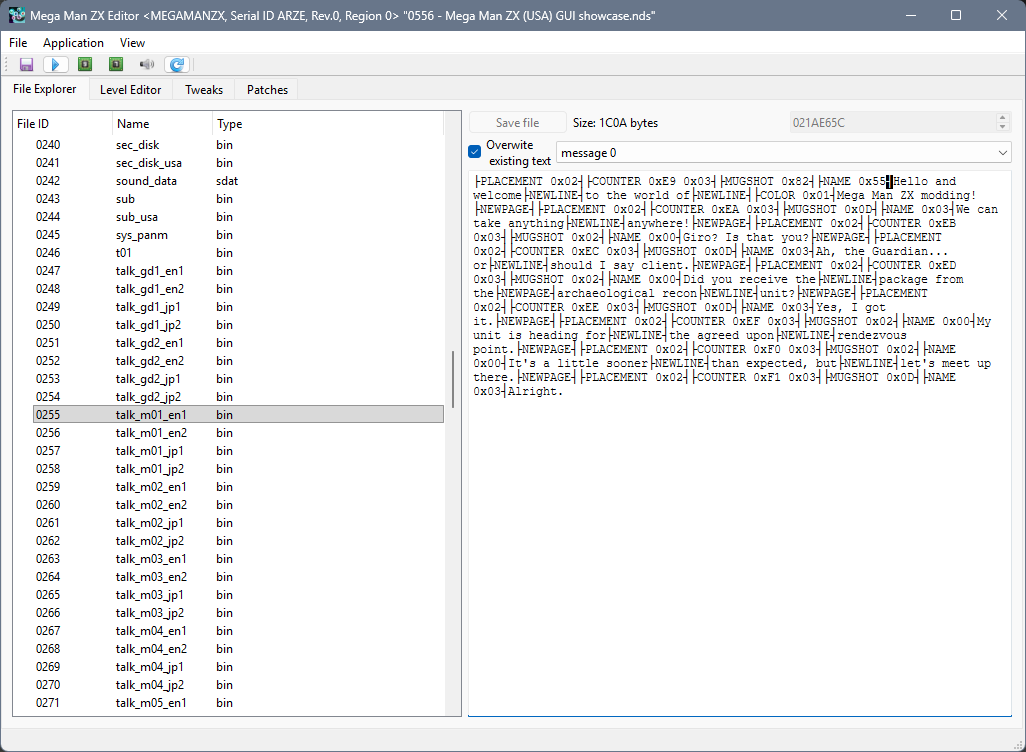
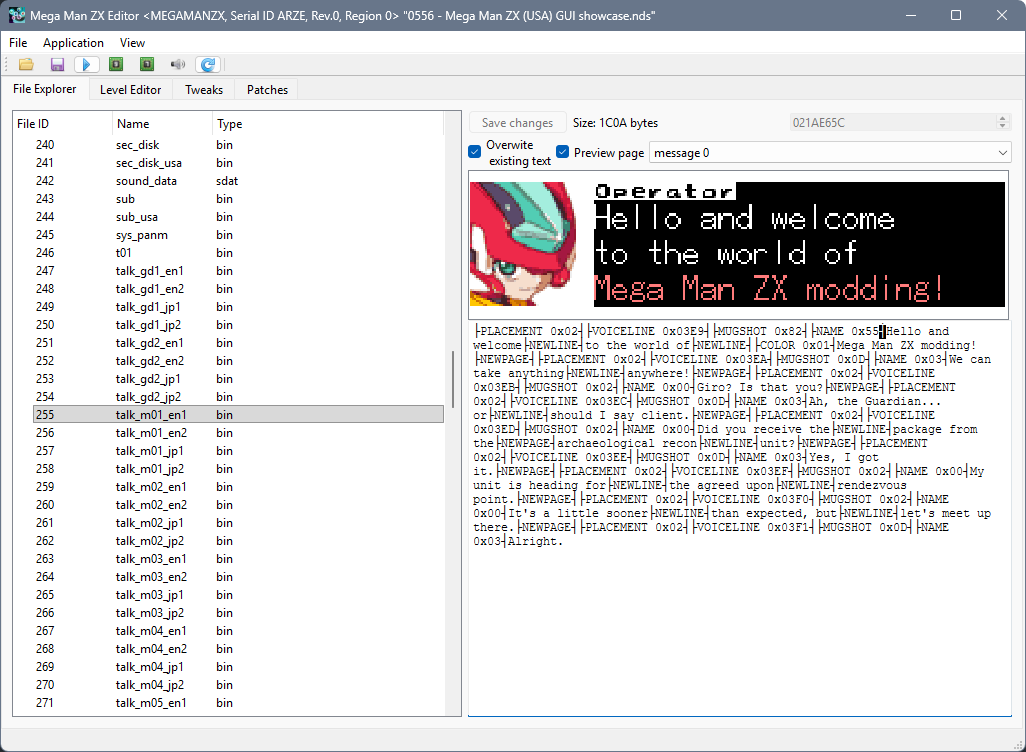
Dialogue names previewable
- The dialogue preview feature now displays the current name
- Special symbols that use the special command notation (ex.: ├DPAD_LEFT┤) are now displayed as well
- Adjust how newlines are handled for a more authentic render (absolute line position instead of relative vertical offset)
- Display choice cursors at all possible positions when the dialogue enables choices

diff --git a/MME_NDS.py b/MME_NDS.py
@@ -2858,11 +2858,16 @@ class MainWindow(QtWidgets.QMainWindow):
         find = text[p:].find(newpage)
         rfind = text[:p].rfind(newpage)
         viewed_text = text[rfind + len(newpage) if rfind != -1 else 0:p+find if find != -1 else len(text)].split(newpage)[0]
+        arm9_bin = self.arm9_decompressed.save()
         #print(rfind, find)
-        def draw_char(chr_index: int, draw_index: int):
+        def get_sp_command_name(*val):
+            return self.file_content_text.charmap.dict_byte_to_unicode[val].split(" ")[0]
+        def draw_char(chr_index: int, draw_index: int, line: int=None):
+            if line is None:
+                line = newline_count
             painter_text.drawImage(
                 (draw_index%chars_per_line)*char_width,
-                (draw_index//chars_per_line)*8,
+                line*16+(draw_index//chars_per_line)*8,
                 lib.datconv.binToQt(
                     font_obj.chr_data[chr_index*font_obj.indexing_space:(chr_index+1)*font_obj.indexing_space],
                     self.GFX_PALETTES[1][color_index*2:],
@@ -2870,6 +2875,33 @@ class MainWindow(QtWidgets.QMainWindow):
                     1, 1, char_width, font_obj.char_height
                 )
             )
+        def draw_namechar(chr_index: int, draw_index: int):
+            painter_name.drawImage(
+                draw_index*8,
+                0,
+                lib.datconv.binToQt(
+                    arm9_bin[self.gamedat.arm9Addrs["dialogue font"]+chr_index*64:self.gamedat.arm9Addrs["dialogue font"]+(chr_index+1)*64],
+                    [0xff000000, 0xff7b7b7b, 0xffffffff],
+                    lib.datconv.CompressionAlgorithmEnum.EIGHTBPP,
+                    1, 1
+                )
+            )
+        def draw_name(name_index: int):
+            key = "dialogue names "
+            gfx_offset_tiles = 0
+            if self.file_content_text.charmap in [lib.dialogue.CHARMAP_DIALOGUE_ZX_JP, lib.dialogue.CHARMAP_DIALOGUE_ZXA_JP]:
+                key += "jp"
+                name_charmap = lib.dialogue.CHARMAP_DIALOGUENAME_ZX_JP
+                gfx_offset_tiles = 0x5D # todo: make this a constant
+            else:
+                key += "en"
+                name_charmap = lib.dialogue.CHARMAP_DIALOGUENAME_ZX_EN
+            addr_namelist = self.gamedat.arm9Addrs[key]
+            name: str = lib.dialogue.DialogueFile.binToText(arm9_bin[addr_namelist+name_index*0x0C:addr_namelist+(name_index+1)*0x0C], name_charmap)
+            name = name[:name.find(name_charmap.dict_byte_to_unicode[(0xFF,)])]
+            #print(name)
+            for char_i, char in enumerate(name):
+                draw_namechar(name_charmap.dict_unicode_to_byte[char][0]+gfx_offset_tiles, char_i)
         if viewed_text != self.gfx_view_dialogue.viewed_text:
             #print(viewed_text)
             self.gfx_view_dialogue.viewed_text = viewed_text
@@ -2922,6 +2954,8 @@ class MainWindow(QtWidgets.QMainWindow):
                 chars_per_line = BOX_WIDTH//char_width
                 graphic_mugshot = QtGui.QPixmap(8*MUGSHOT_WIDTH_TILES, 8*MUGSHOT_HEIGHT_TILES)
                 graphic_mugshot.fill(0)
+                graphic_name = QtGui.QPixmap(BOX_WIDTH, 8)
+                graphic_name.fill(0)
                 graphic_text = QtGui.QPixmap(BOX_WIDTH, box_height)
                 graphic_text.fill(0)
                 if self.gfx_view_dialogue.viewed_text != "":
@@ -2930,8 +2964,12 @@ class MainWindow(QtWidgets.QMainWindow):
                     painter_text.setRenderHints(QtGui.QPainter.RenderHint.Antialiasing | QtGui.QPainter.RenderHint.SmoothPixmapTransform, False)
                     painter_text.setCompositionMode(QtGui.QPainter.CompositionMode.CompositionMode_Source)
                     is_sp = False
-                    draw_index = 0
-                    color_index = 0
+                    draw_index = 0 # cursor position
+                    newline_count = 0
+                    color_index = 0 # color command value
+                    choice_cursor = None # line on which the choice cursor is
+                    placement_bottom = False
+                    placement_right = False
                     for c_i, c in enumerate(viewed_text):
                         if is_sp:
                             if c == "┤":
@@ -2942,33 +2980,50 @@ class MainWindow(QtWidgets.QMainWindow):
                             if sp_command in self.file_content_text.charmap.dict_unicode_to_byte: # argument-less command
                                 chr_index = self.file_content_text.charmap.dict_unicode_to_byte[sp_command][0]
                                 if chr_index < 0xF0: # chars that aren't really special commands but have a special representation (ex.:├DPAD┤)
+                                    chr_index = self.file_content_text.charmap.dict_unicode_to_byte[sp_command][0]
+                                    draw_char(chr_index, draw_index)
                                     draw_index += 1
                                 else:
-                                    if sp_command == self.file_content_text.charmap.dict_byte_to_unicode[(0xfc,)]:
+                                    if sp_command == get_sp_command_name(0xfc,): # newline
                                         #print(f"newline (({draw_index-1}//{chars_per_line})+2)*{chars_per_line} = {((draw_index//chars_per_line)+2)*chars_per_line}")
-                                        draw_index = (((draw_index-1)//chars_per_line)+2)*chars_per_line
-                            elif viewed_text[c_i:c_i+viewed_text[c_i:].find(" ")] == self.file_content_text.charmap.dict_byte_to_unicode[(0xf3, None)].split(" ")[0]:
-                                mughsot_index = int(viewed_text[c_i+viewed_text[c_i:].find(" "):c_i+viewed_text[c_i:].find("┤")], 0)
-                                if mughsot_index != 0:
-                                    painter_mugshot = QtGui.QPainter()
-                                    painter_mugshot.begin(graphic_mugshot)
-                                    painter_mugshot.setRenderHints(QtGui.QPainter.RenderHint.Antialiasing | QtGui.QPainter.RenderHint.SmoothPixmapTransform, False)
-                                    painter_mugshot.setCompositionMode(QtGui.QPainter.CompositionMode.CompositionMode_Source)
-                                    if not "ZXA" in self.rom.name.decode():
-                                        mughsot_index -= 1
-                                    img = lib.datconv.binToQt(
-                                        mugshot_obj.getGraphic(mughsot_index),
-                                        mugshot_obj.getPalette(mughsot_index),
-                                        lib.datconv.CompressionAlgorithmEnum.EIGHTBPP,
-                                        MUGSHOT_WIDTH_TILES, MUGSHOT_HEIGHT_TILES)
-                                    painter_mugshot.drawImage(
-                                        0,
-                                        0,
-                                        img
-                                    )
-                                    painter_mugshot.end()
-                            elif viewed_text[c_i:c_i+viewed_text[c_i:].find(" ")] == self.file_content_text.charmap.dict_byte_to_unicode[(0xf1, None)].split(" ")[0]:
-                                color_index = int(viewed_text[c_i+viewed_text[c_i:].find(" "):c_i+viewed_text[c_i:].find("┤")], 0)
+                                        newline_count += 1
+                                        draw_index = 0#(((draw_index-1)//chars_per_line)+2)*chars_per_line
+                                    elif sp_command == get_sp_command_name(0xfb,): # three choices
+                                        choice_cursor = 0
+                            else:
+                                sp_command_name = viewed_text[c_i:c_i+viewed_text[c_i:].find(" ")]
+                                sp_command_arg = int(viewed_text[c_i+viewed_text[c_i:].find(" "):c_i+viewed_text[c_i:].find("┤")], 0)
+                                if sp_command_name == get_sp_command_name(0xf3, None): # mugshot
+                                    mughsot_index = sp_command_arg
+                                    if mughsot_index != 0:
+                                        painter_mugshot = QtGui.QPainter()
+                                        painter_mugshot.begin(graphic_mugshot)
+                                        painter_mugshot.setRenderHints(QtGui.QPainter.RenderHint.Antialiasing | QtGui.QPainter.RenderHint.SmoothPixmapTransform, False)
+                                        painter_mugshot.setCompositionMode(QtGui.QPainter.CompositionMode.CompositionMode_Source)
+                                        if not "ZXA" in self.rom.name.decode():
+                                            mughsot_index -= 1
+                                        img = lib.datconv.binToQt(
+                                            mugshot_obj.getGraphic(mughsot_index),
+                                            mugshot_obj.getPalette(mughsot_index),
+                                            lib.datconv.CompressionAlgorithmEnum.EIGHTBPP,
+                                            MUGSHOT_WIDTH_TILES, MUGSHOT_HEIGHT_TILES)
+                                        painter_mugshot.drawImage(
+                                            0,
+                                            0,
+                                            img
+                                        )
+                                        painter_mugshot.end()
+                                elif sp_command_name == get_sp_command_name(0xf8, None): # name
+                                    painter_name = QtGui.QPainter()
+                                    painter_name.begin(graphic_name)
+                                    painter_name.setRenderHints(QtGui.QPainter.RenderHint.Antialiasing | QtGui.QPainter.RenderHint.SmoothPixmapTransform, False)
+                                    painter_name.setCompositionMode(QtGui.QPainter.CompositionMode.CompositionMode_Source)
+                                    draw_name(sp_command_arg)
+                                    painter_name.end()
+                                elif sp_command_name == get_sp_command_name(0xf1, None): # color
+                                    color_index = sp_command_arg
+                                elif sp_command_name == get_sp_command_name(0xf6, None): # two choices
+                                    choice_cursor = 1
                         else: # draw char
                             #print(draw_index)
                             chr_index = self.file_content_text.charmap.dict_unicode_to_byte[c][0]
@@ -2976,11 +3031,17 @@ class MainWindow(QtWidgets.QMainWindow):
                                 chr_index += self.file_content_text.charmap.dict_unicode_to_byte[c][1]
                             draw_char(chr_index, draw_index)
                             draw_index += 1
+                    if choice_cursor is not None:
+                        while choice_cursor < 3: # draw all possible cursor positions
+                            draw_char(sum(self.file_content_text.charmap.dict_unicode_to_byte["⯈"]), 0, choice_cursor)
+                            choice_cursor += 1
                     painter_text.end()
                 item_text = self.gfx_view_dialogue.scene().addPixmap(graphic_text)
                 if "talk_" in self.fileToEdit_name:
-                    self.gfx_view_dialogue.scene().addPixmap(graphic_mugshot)
-                    item_text.setPos(6*8, 8)
+                    item_mugshot = self.gfx_view_dialogue.scene().addPixmap(graphic_mugshot)
+                    item_name = self.gfx_view_dialogue.scene().addPixmap(graphic_name)
+                    item_name.setPos(0, -8)
+                    item_mugshot.setPos(BOX_WIDTH+8 if placement_right else -(MUGSHOT_WIDTH_TILES+1)*8, -8)
                 self.gfx_view_dialogue.fitInView2()
             except Exception as e: # text was edited in a way that cannot be parsed yet
                 raise e
@@ -4425,7 +4486,7 @@ class MainWindow(QtWidgets.QMainWindow):
             return
         arm9_data = self.arm9_decompressed.save()
         addr = self.gamedat.arm9Addrs["dialogue names " + self.dropdown_dialogueNames_lang.currentText()]
-        name = arm9_data[addr+index*0x0C:addr+index*0x0C+0x0C]
+        name = arm9_data[addr+index*0x0C:addr+(index+1)*0x0C]
         self.textEdit_dialogueNames.charmap = self.gamedat.charmaps["names "+self.dropdown_dialogueNames_lang.currentText()]
         self.textEdit_dialogueNames.setPlainText(lib.dialogue.DialogueFile.binToText(name, self.textEdit_dialogueNames.charmap))
         self.textEdit_dialogueNames.blockSignals(False)

diff --git a/lib/charmap.py b/lib/charmap.py
@@ -1,7 +1,7 @@
 class CharMap:
     def __init__(self):
-        self.dict_byte_to_unicode: dict[tuple, str] = {}
-        self.dict_unicode_to_byte: dict[str, tuple] = {}
+        self.dict_byte_to_unicode: dict[tuple[int | None], str] = {} # key: tuple(byte, *args); value: unicode char or command string
+        self.dict_unicode_to_byte: dict[str, tuple[int]] = {} # key: unicode char or command string; value: tuple of ints representing bytes
     
     def add_mapping(self, map_byte: tuple[int], map_unicode: str):
         self.add_byte_mapping(map_byte, map_unicode)
